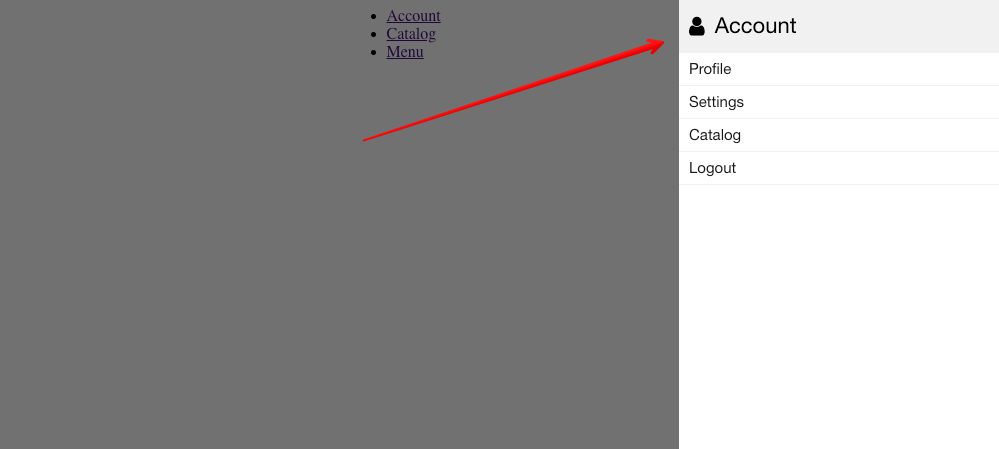
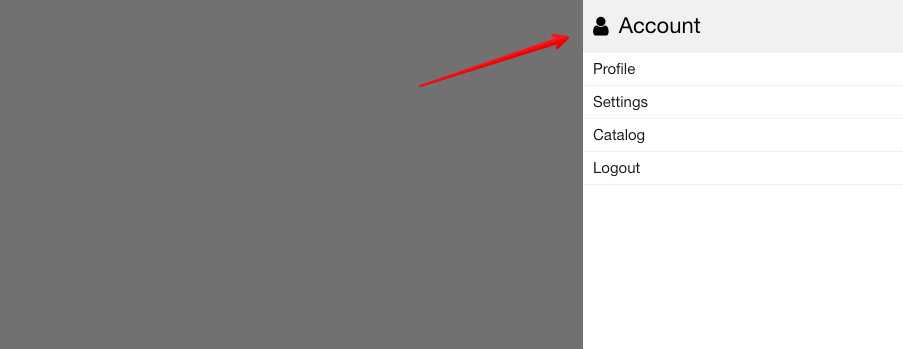
Issue-4 | Modified README.

diff --git a/README.md b/README.md
@@ -53,6 +53,7 @@ Add code like the following where it will executed.
 ```php
 <?php
 
+use Mireon\SlidePanels\Panels\Panel;
 use Mireon\SlidePanels\SlidePanels;
 use Mireon\SlidePanels\Widgets\Header\Header;
 use Mireon\SlidePanels\Widgets\Menu\Item;
@@ -60,6 +61,8 @@ use Mireon\SlidePanels\Widgets\Menu\Menu;
 
 SlidePanels::getInstance()
     ->panel('main')
+    ->width(320)
+    ->side(Panel::LEFT)
     ->widget(Header::create('Main menu', 'fa fa-bars'))
     ->widget(Menu::create()
         ->key('main-menu')
@@ -77,6 +80,7 @@ You can find more examples of panel factories in the path `vendor/mireon/slide-p
 ```php
 <?php
 
+use Mireon\SlidePanels\Panels\Panel;
 use Mireon\SlidePanels\Panels\PanelFactoryInterface;
 use Mireon\SlidePanels\SlidePanelsInterface;
 use Mireon\SlidePanels\Widgets\Header\Header;
@@ -107,6 +111,8 @@ class MainMenu implements PanelFactoryInterface
     {
         $slidePanels
             ->panel('main')
+            ->width(960)
+            ->side(Panel::RIGHT)
             ->widget(Header::create('Main menu', 'fa fa-bars'))
             ->widget(Menu::create()
                 ->key('main-menu')
@@ -157,16 +163,18 @@ Few widgets supplied in a box: Header, Menu, Html, Close. You can create your ow
 use Mireon\SlidePanels\Widgets\Header\Header;
 
 Header::create()
-    ->key('main-menu-header')
+    ->key('account-header')
     ->weight(10)
-    ->icon('fa fa-bars')
-    ->text('Menu')
+    ->icon('fa fa-user')
+    ->text('Account')
     ->size(Header::BIG);
 ```
 
 #### Menu
 
-![The "Header" widget](docs/images/widgets-menu.jpg?raw=true)
+A vertical list of items.
+
+![The "Menu" widget](docs/images/widgets-menu.jpg?raw=true)
 
 ```php
 <?php
@@ -184,6 +192,41 @@ Menu::create()
     ])
     ->item(Item::create('Forum', 'https://example.com/forum', 'fa fa-headphones'))
     ->item(Item::create('Profile', 'https://example.com/profile', 'fa fa-user-o'));
+```
+
+#### Close
+
+A lever to close a panel.
+
+![The "Close" widget](docs/images/widgets-close.jpg?raw=true)
+
+```php
+<?php
+
+use Mireon\SlidePanels\Widgets\Close\Close;
+
+Close::create('Close', 'fa fa-close')
+    ->key('panel-close')
+    ->weight(-10)
+    ->text('Close')
+    ->icon('fa fa-close');
+```
+
+#### Html
+
+Output the raw HTML.
+
+![The "Html" widget](docs/images/widgets-html.jpg?raw=true)
+
+```php
+<?php
+
+use Mireon\SlidePanels\Widgets\Html\Html;
+
+Html::create()
+    ->key('catalog-caption')
+    ->weight(5)
+    ->html('<span style="padding: 10px; color: #ababab;">The main catalog!</span>');
 ```
 
 ## Tests
